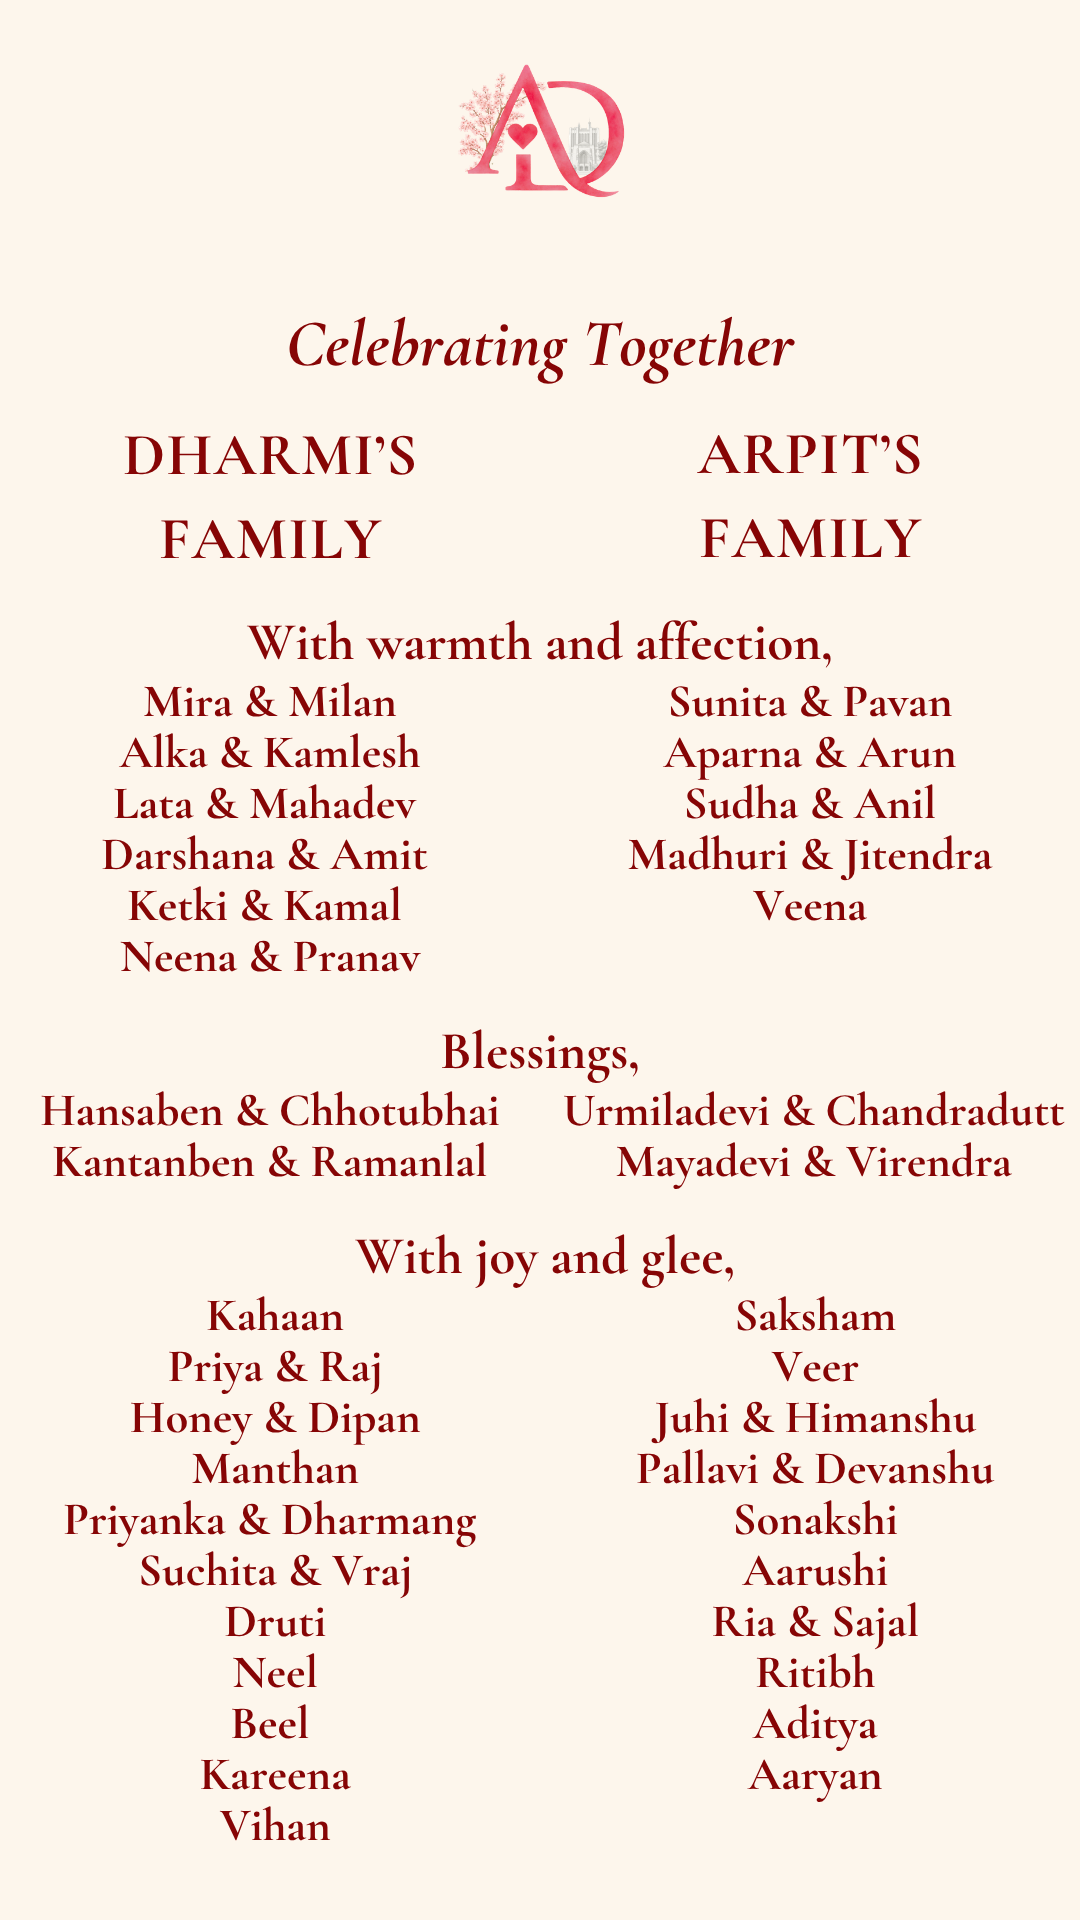
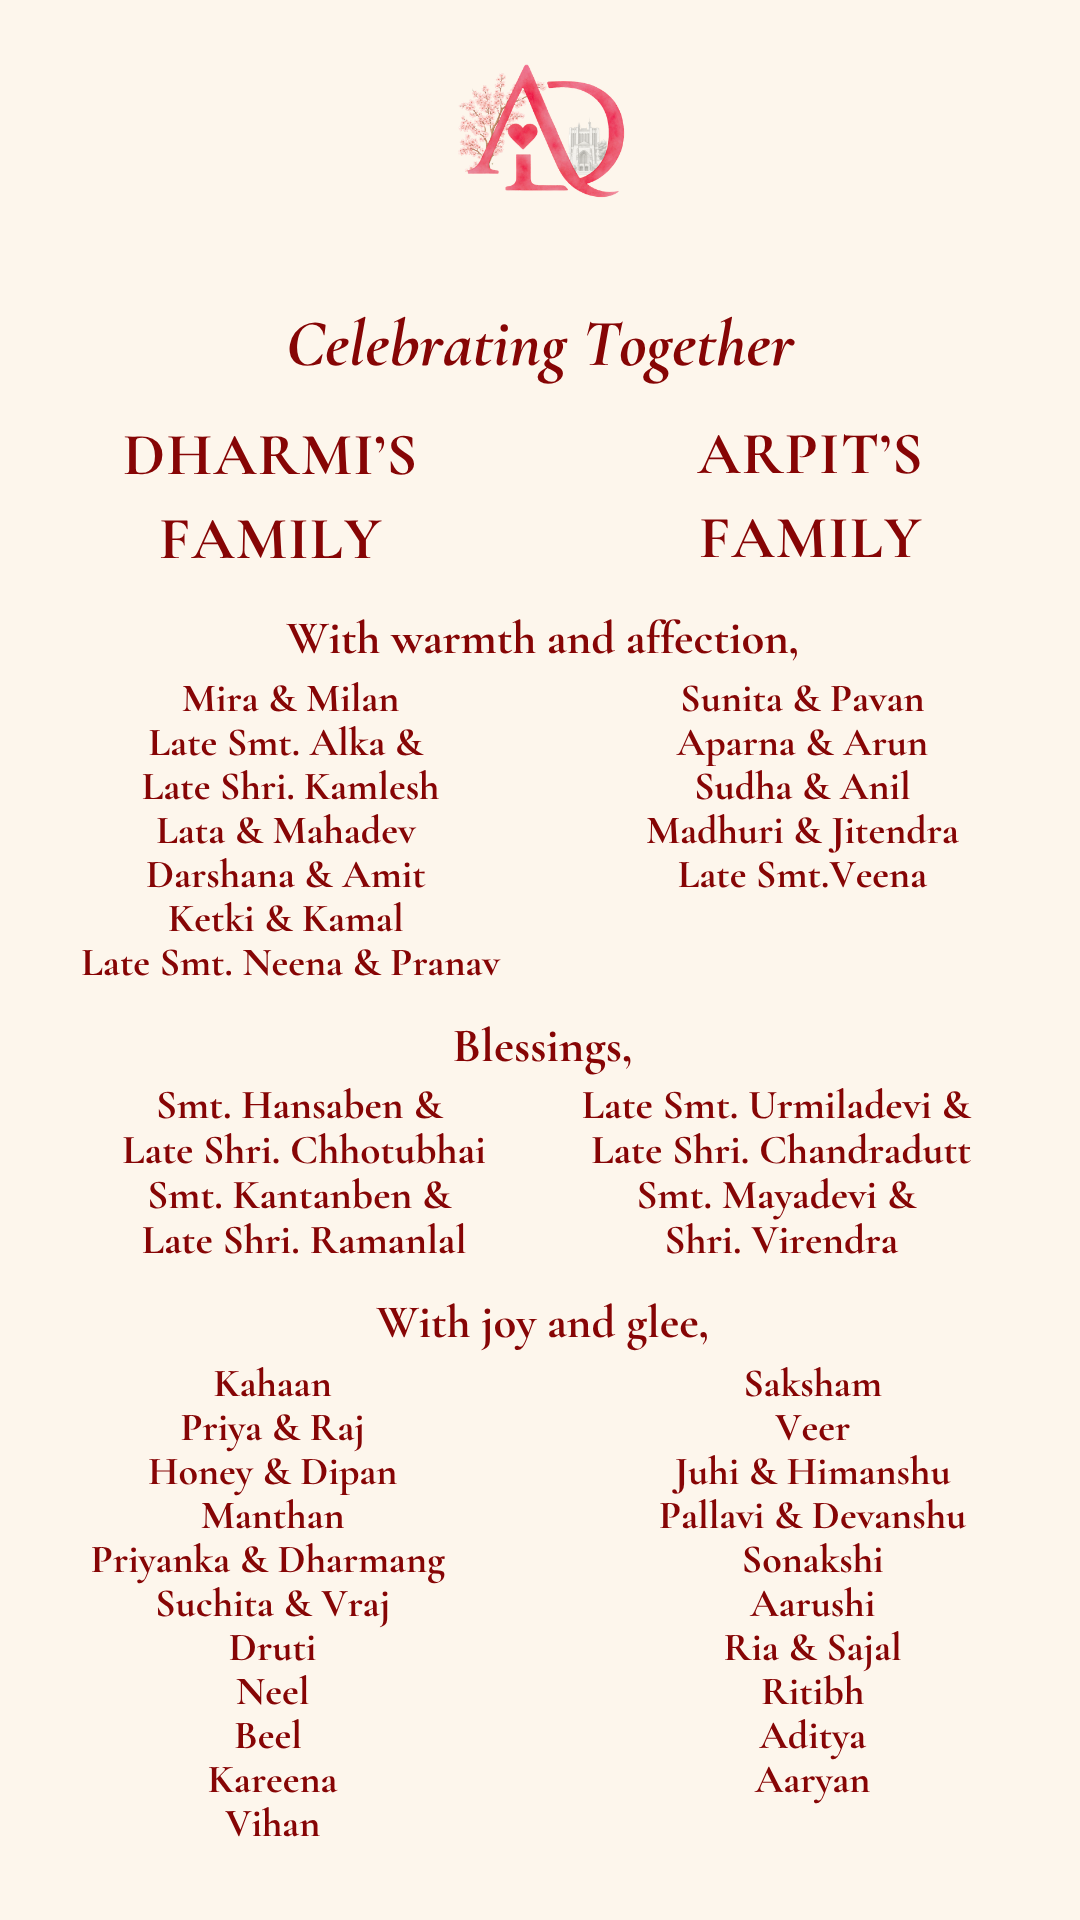
Refresh Celebrating Together art from new landing4 assets.

Changed region(s): [[0.0306, 0.3125, 0.9778, 0.9688]]

diff --git a/src/components/opening/welcome-assets.ts b/src/components/opening/welcome-assets.ts
@@ -22,10 +22,10 @@ export const LANDING3_SCROLL = `/images/landing3@2x.png?landing3-20260919c`;
 export const LANDING3_DESKTOP = `/images/desklanding3@2x.png?desklanding3-20260919b`;
 
 /** Celebrating Together scroll section — phone (landing4@2x.png) */
-export const CELEBRATING_TOGETHER = `/images/landing4@2x.png?landing4-20260920a`;
+export const CELEBRATING_TOGETHER = `/images/landing4@2x.png?landing4-20260921b`;
 
 /** Celebrating Together scroll section — desktop (desklanding4@2x.png) */
-export const CELEBRATING_TOGETHER_DESKTOP = `/images/desklanding4@2x.png?desklanding4-20260919a`;
+export const CELEBRATING_TOGETHER_DESKTOP = `/images/desklanding4@2x.png?desklanding4-20260921b`;
 
 /** Wedding Events — ordered phone panels from Desktop “Events mobile” (5→9). */
 export const WEDDING_EVENTS_MOBILE_PAGES = [
